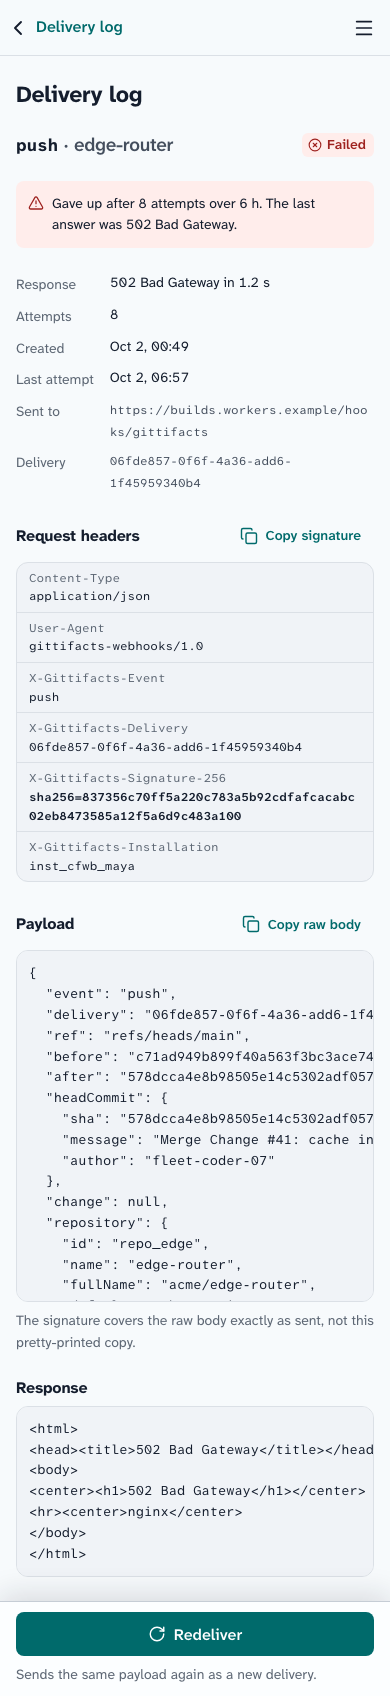
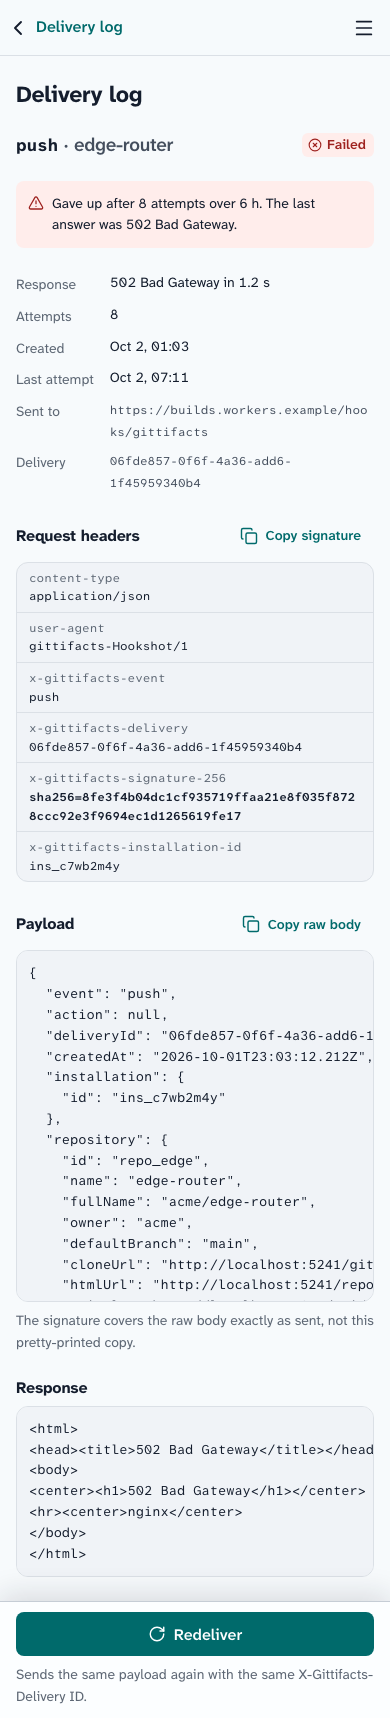
web: integrations mock deliveries match the server wire format (lower-case headers incl. x-gittifacts-installation-id, gittifacts-Hookshot/1 UA, envelope event/action/deliveryId/createdAt/installation + per-event fields, no headCommit; ins_/gtic_/gtis_ ids); signature header found case-insensitively

diff --git a/packages/web/src/api/mock-integrations.ts b/packages/web/src/api/mock-integrations.ts
@@ -61,7 +61,7 @@ const guid = (seed: string) => {
   const h = sha(seed);
   return `${h.slice(0, 8)}-${h.slice(8, 12)}-4${h.slice(13, 16)}-a${h.slice(17, 20)}-${h.slice(20, 32)}`;
 };
-const secretValue = (seed: string) => `gtfs_${b64u(seed, 40)}`;
+const secretValue = (seed: string) => `gtis_${b64u(seed, 40)}`;
 const secretView = (seed: string, createdMin: number, usedMin: number | null): SecretView => ({
   id: `sec_${b64u(seed, 8)}`,
   prefix: secretValue(seed).slice(0, 12),
@@ -76,7 +76,7 @@ const DEPLOY: IntegrationScope[] = ["repo:read", "contents:read", "webhooks", "d
 const integrations: IntegrationView[] = [
   {
     id: "int_cfwb",
-    clientId: "gtfi_9c1e4b7a2d",
+    clientId: "gtic_9c1e4b7a2d",
     name: "Cloudflare Workers Builds",
     description: "Builds and deploys Workers from gittifacts: production from main, a preview per Change.",
     logoUrl: null,
@@ -102,7 +102,7 @@ const integrations: IntegrationView[] = [
   },
   {
     id: "int_netlify_stg",
-    clientId: "gtfi_41f07c2be8",
+    clientId: "gtic_41f07c2be8",
     name: "Netlify (staging)",
     description: "Staging app for the Netlify connector. Not for production sites.",
     logoUrl: null,
@@ -145,53 +145,106 @@ interface DeliverySeed {
   error?: string | null;
 }
 
-function payloadFor(s: DeliverySeed, id: string): string {
-  const r = s.repoId ? repo(s.repoId) : null;
-  const repository = r
-    ? {
-        id: r.id,
-        name: r.name,
-        fullName: r.fullName,
-        defaultBranch: "main",
-        cloneUrl: `${ORIGIN}/git/${r.fullName}.git`,
-      }
-    : null;
-  const installation = { id: "inst_cfwb_maya", account: { kind: "human", handle: ME.handle } };
-  const sender = { id: ME.id, kind: "human", name: ME.name };
-  const change = (n: number) => ({
-    id: `chg_${b64u(`${s.id}-chg`, 6)}`,
-    number: n,
-    title: "Retry webhook deliveries with jittered backoff",
+/** Maya's installation of Cloudflare Workers Builds (the deliveries below belong to it). */
+const CFWB_INSTALL = "ins_c7wb2m4y";
+
+const htmlBase = ORIGIN;
+const repoPayload = (r: RepoRef) => ({
+  id: r.id,
+  name: r.name,
+  fullName: r.fullName,
+  owner: r.fullName.split("/")[0] ?? "",
+  defaultBranch: "main",
+  cloneUrl: `${ORIGIN}/git/${r.fullName}.git`,
+  htmlUrl: `${htmlBase}/repos/${r.id}`,
+  apiUrl: `${ORIGIN}/api/v1/repos/${r.id}`,
+});
+
+function changePayload(s: DeliverySeed, r: RepoRef) {
+  const id = `chg_${b64u(`${s.id}-chg`, 8)}`;
+  const merged = s.event === "change.merged" || s.event === "change.reverted";
+  return {
+    id,
+    title: "Cache invoice totals per billing period",
+    status: s.event === "change.merged" ? "merged" : s.event === "change.reverted" ? "reverted" : "awaiting-review",
+    planId: `pln_${b64u(`${s.id}-plan`, 8)}`,
+    baseSha: sha(`${s.id}-base`),
     headSha: sha(`${s.id}-head`),
+    mergedSha: merged ? sha(`${s.id}-merged`) : null,
     lane: 1,
-    url: `${ORIGIN}/changes/chg_${b64u(`${s.id}-chg`, 6)}`,
-  });
-  const body: Record<string, unknown> = { event: s.event, delivery: id };
-  if (s.action) body.action = s.action;
+    revertOf: null,
+    cloneUrl: `${ORIGIN}/git/${r.fullName}/changes/${id}.git`,
+    htmlUrl: `${htmlBase}/changes/${id}`,
+    apiUrl: `${ORIGIN}/api/v1/changes/${id}`,
+  };
+}
+
+/** The envelope the server sends: event, action, deliveryId, createdAt, installation, then per-event fields. */
+function payloadFor(s: DeliverySeed, deliveryId: string, createdAt: string): string {
+  const r = s.repoId ? repo(s.repoId) : null;
+  const body: Record<string, unknown> = {
+    event: s.event,
+    action: s.action ?? null,
+    deliveryId,
+    createdAt,
+    installation: s.event === "ping" ? null : { id: CFWB_INSTALL },
+  };
   switch (s.event) {
-    case "push":
+    case "push": {
+      if (!r) break;
+      const after = sha(`${s.id}-after`);
       Object.assign(body, {
+        repository: repoPayload(r),
+        kind: "default-branch",
         ref: "refs/heads/main",
         before: sha(`${s.id}-before`),
-        after: sha(`${s.id}-after`),
-        headCommit: { sha: sha(`${s.id}-after`), message: "Merge Change #41: cache invoice totals", author: "fleet-coder-07" },
+        after,
+        sha: after,
+        cloneUrl: `${ORIGIN}/git/${r.fullName}.git`,
         change: null,
       });
       break;
+    }
     case "change.created":
     case "change.updated":
     case "change.merged":
-    case "change.reverted":
-      body.change = change(41);
+    case "change.reverted": {
+      if (!r) break;
+      const change = changePayload(s, r);
+      Object.assign(body, {
+        repository: repoPayload(r),
+        change,
+        cloneUrl: change.cloneUrl,
+        sha: change.mergedSha ?? change.headSha,
+        ...(s.event === "change.updated" ? { changedFields: ["headSha", "status"] } : {}),
+      });
       break;
-    case "ping":
-      body.zen = "Humans approve intent. Machines prove conformance.";
-      body.hook = { url: integrations.find((i) => i.id === s.integrationId)?.webhook.url ?? null };
+    }
+    case "installation.created":
+    case "installation.deleted":
+      body.installation = {
+        id: CFWB_INSTALL,
+        account: { id: ME.id, handle: ME.handle },
+        repoSelection: "selected",
+        repositories: ["repo_billing", "repo_edge"].map(repo).map((x) => ({
+          id: x.id,
+          name: x.name,
+          fullName: x.fullName,
+          cloneUrl: `${ORIGIN}/git/${x.fullName}.git`,
+        })),
+        scopes: DEPLOY,
+      };
       break;
-    default:
+    case "ping": {
+      const it = integrations.find((i) => i.id === s.integrationId);
+      Object.assign(body, {
+        zen: "Humans approve intent. Machines prove conformance.",
+        integration: it ? { id: it.id, clientId: it.clientId, name: it.name } : null,
+        hook: it ? { url: it.webhook.url, events: it.webhook.events, active: it.webhook.active } : null,
+      });
       break;
+    }
   }
-  Object.assign(body, { repository, installation, sender });
   return JSON.stringify(body);
 }
 
@@ -202,7 +255,8 @@ const deliveryOwner = (d: DeliveryDetail) => owners.get(d.id);
 function makeDelivery(s: DeliverySeed): DeliveryDetail {
   owners.set(s.id, s.integrationId);
   const g = guid(s.id);
-  const payload = payloadFor(s, g);
+  const createdAt = ago(s.createdMin);
+  const payload = payloadFor(s, g, createdAt);
   const integration = integrations.find((i) => i.id === s.integrationId);
   return {
     id: s.id,
@@ -210,23 +264,24 @@ function makeDelivery(s: DeliverySeed): DeliveryDetail {
     event: s.event,
     action: s.action ?? null,
     repo: s.repoId ? { id: s.repoId, name: repo(s.repoId).name } : null,
-    installationId: s.event === "ping" ? null : "inst_cfwb_maya",
+    installationId: s.event === "ping" ? null : CFWB_INSTALL,
     status: s.status,
     attempts: s.attempts,
     responseStatus: s.responseStatus,
     durationMs: s.durationMs,
-    createdAt: ago(s.createdMin),
+    createdAt,
     lastAttemptAt: s.lastAttemptMin === null ? null : ago(s.lastAttemptMin ?? s.createdMin),
     nextAttemptAt: s.nextAttemptMin == null ? null : ahead(s.nextAttemptMin),
     redeliveryOf: s.redeliveryOf ?? null,
     url: integration?.webhook.url ?? "https://example.invalid/hook",
+    // Lower-case keys, as the server returns them.
     requestHeaders: {
-      "Content-Type": "application/json",
-      "User-Agent": "gittifacts-webhooks/1.0",
-      "X-Gittifacts-Event": s.event,
-      "X-Gittifacts-Delivery": g,
-      "X-Gittifacts-Signature-256": `sha256=${hex64(payload)}`,
-      ...(s.event === "ping" ? {} : { "X-Gittifacts-Installation": "inst_cfwb_maya" }),
+      "content-type": "application/json",
+      "user-agent": "gittifacts-Hookshot/1",
+      "x-gittifacts-event": s.event,
+      "x-gittifacts-delivery": g,
+      "x-gittifacts-signature-256": `sha256=${hex64(payload)}`,
+      ...(s.event === "ping" ? {} : { "x-gittifacts-installation-id": CFWB_INSTALL }),
     },
     payload,
     responseBody: s.responseBody === undefined ? (s.responseStatus === 200 ? '{"ok":true}' : null) : s.responseBody,
@@ -258,7 +313,7 @@ function summary(d: DeliveryDetail): DeliverySummary {
 
 const installations: InstallationView[] = [
   {
-    id: "inst_cfwb_maya",
+    id: CFWB_INSTALL,
     integration: {
       id: "int_cfwb",
       name: "Cloudflare Workers Builds",
@@ -278,7 +333,7 @@ const installations: InstallationView[] = [
     installedBy: { id: ME.id, name: ME.name },
   },
   {
-    id: "inst_render_maya",
+    id: "ins_r3nd8m4y",
     integration: {
       id: "int_render",
       name: "Render",
@@ -303,7 +358,7 @@ const installations: InstallationView[] = [
 
 const VERCEL = {
   id: "int_vercel",
-  clientId: "gtfi_v3rc31a9f0",
+  clientId: "gtic_v3rc31a9f0",
   name: "Vercel",
   description: "Deploys every push to main to production and builds a preview for each Change.",
   logoUrl: null,
@@ -314,7 +369,7 @@ const VERCEL = {
 };
 const CFWB = {
   id: "int_cfwb",
-  clientId: "gtfi_9c1e4b7a2d",
+  clientId: "gtic_9c1e4b7a2d",
   name: "Cloudflare Workers Builds",
   description: integrations[0]?.description ?? null,
   logoUrl: null,
@@ -329,7 +384,7 @@ const decided = new Map<string, "approved" | "denied">();
 function installFor(id: string): InstallView | null {
   if (!["demo", "update", "empty", "expired", "decided"].includes(id)) return null;
   const update = id === "update";
-  const existing = update ? installations.find((i) => i.id === "inst_cfwb_maya" && i.status === "active") : undefined;
+  const existing = update ? installations.find((i) => i.id === CFWB_INSTALL && i.status === "active") : undefined;
   const status = decided.get(id) ?? (id === "expired" ? "expired" : id === "decided" ? "approved" : "pending");
   return {
     id,
@@ -355,7 +410,7 @@ function applyInstall(view: InstallView, repoSelection: "all" | "selected", repo
     return;
   }
   installations.unshift({
-    id: nextId("inst"),
+    id: nextId("ins"),
     integration: {
       id: view.integration.id,
       name: view.integration.name,
@@ -431,7 +486,7 @@ function create(body: unknown): MockResponse {
   const now = new Date().toISOString();
   const integration: IntegrationView = {
     id,
-    clientId: `gtfi_${sha(id).slice(0, 10)}`,
+    clientId: `gtic_${sha(id).slice(0, 10)}`,
     name: i.name.trim(),
     description: i.description ?? null,
     logoUrl: i.logoUrl ?? null,

diff --git a/packages/web/src/components/Deliveries.tsx b/packages/web/src/components/Deliveries.tsx
@@ -91,7 +91,9 @@ export function DeliveryDetailView({
 }) {
   const now = minuteClock.value;
   const payload = prettyJson(d.payload);
-  const signature = d.requestHeaders["X-Gittifacts-Signature-256"];
+  // Header names are case-insensitive (the server sends them lower-case).
+  const isSignature = (k: string) => k.toLowerCase() === "x-gittifacts-signature-256";
+  const signature = Object.entries(d.requestHeaders).find(([k]) => isSignature(k))?.[1];
   return (
     <article class="dlv-detail" aria-labelledby="dlv-title">
       <header class="dlv-detail__head">
@@ -145,7 +147,7 @@ export function DeliveryDetailView({
       <Block title="Request headers" aside={signature ? <CopyButton text={signature} label="Copy signature" /> : null}>
         <dl class="dlv-headers">
           {Object.entries(d.requestHeaders).map(([k, v]) => (
-            <div key={k} class={k === "X-Gittifacts-Signature-256" ? "is-signature" : undefined}>
+            <div key={k} class={isSignature(k) ? "is-signature" : undefined}>
               <dt>{k}</dt>
               <dd>{v}</dd>
             </div>
